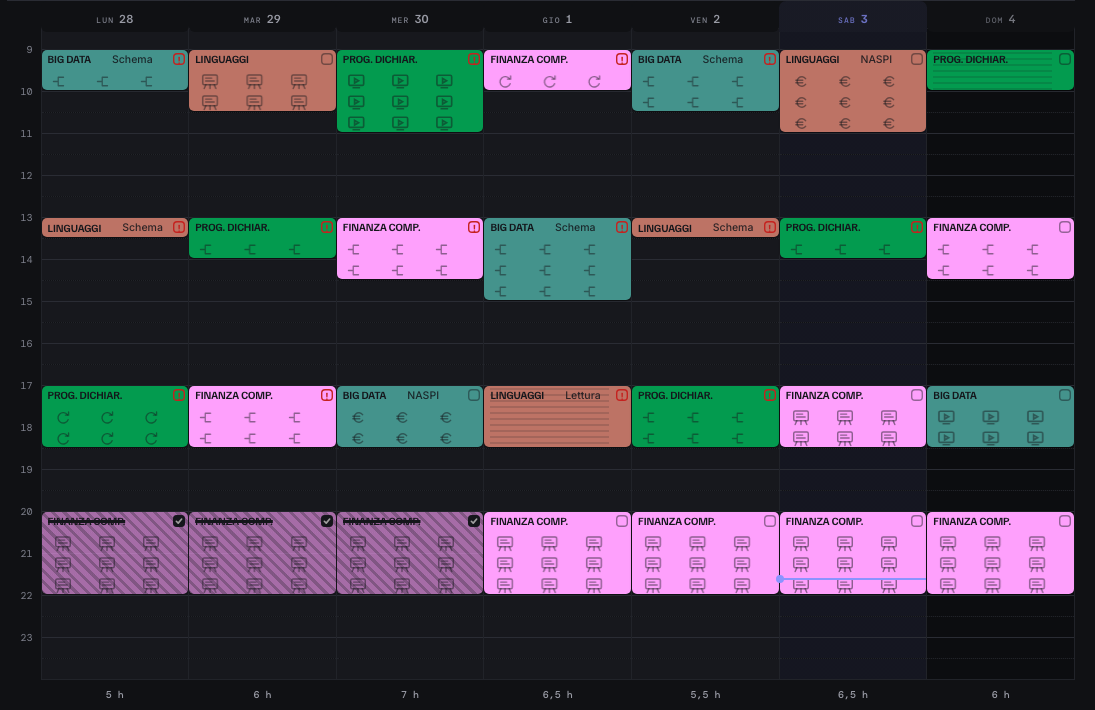
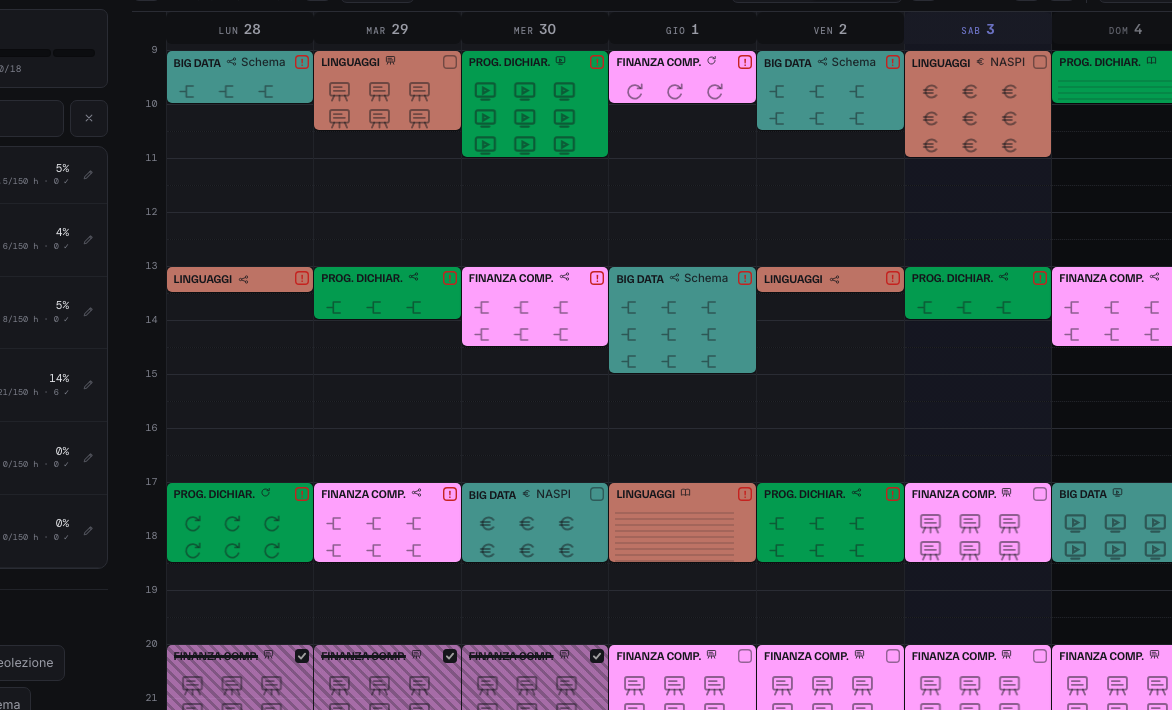
Il titolo torna NOME + icona + attivita'; la mezz'ora senza motivo
Come chiesto il 3 ottobre, come c'era nel lavoro: il nome in grassetto,
l'icona dell'attivita' e il nome dell'attivita'. Se non ci sta tutto,
prima se ne va la parola, poi l'icona; il nome della materia mai, e mai
coi puntini per far posto agli altri due. Dopo che arrivano i caratteri
veri il disegno si rifa', perche' quello che ci stava col carattere di
riserva puo' non starci piu'.

La mezz'ora da sola non ha piu' figure ne' tessuti: solo il titolo.

E le file delle figure partono tutte dalla stessa mezz'ora nei blocchi
della stessa lunghezza: l'icona accanto al nome lo abbassava di due
pixel, e a certe altezze bastava per farle partire una mezz'ora piu' in
basso in un blocco e non nel vicino.

diff --git a/index.html b/index.html
@@ -579,7 +579,6 @@ tbody tr:last-child td.c{border-bottom:1px solid var(--line-soft)}
    posto. L'iconcina dell'attivita' accanto al nome non serve piu': lo dice
    gia' la fila di figure, in ogni mezz'ora. Torna quando il motivo non ci sta. */
 
-.blk em .l1 s:not(.soloico) .ico{display:none}
 /* il titolo su una riga sola (classe doppia: vince sulle regole piu' sotto) */
 .blk em .l1.l1{flex-wrap:nowrap}
 .blk em .l1.l1 b{flex:0 1 auto;min-width:0;overflow:hidden;text-overflow:ellipsis;white-space:nowrap}
@@ -587,8 +586,8 @@ tbody tr:last-child td.c{border-bottom:1px solid var(--line-soft)}
 .blk em .l1.l1 s i{white-space:nowrap;overflow:hidden;text-overflow:ellipsis;min-width:0}
 /* Nome e attività sulla stessa riga se ci stanno; se no l'attività va a capo
    da sola, invece di troncarle tutt'e due come faceva la riga forzata. */
-.blk em .l1{display:flex;flex-wrap:wrap;align-items:baseline;column-gap:6px;
-  flex:0 0 auto;padding-right:24px}
+.blk em .l1{display:flex;flex-wrap:wrap;align-items:baseline;column-gap:5px;
+  flex:0 0 auto;padding-right:16px}
 .blk em .l1 b{flex:0 1 auto;max-width:100%;padding-right:0}
 .blk em .l1 s{flex:0 1 auto;min-width:0;margin-top:0}
 .blk em span.tr{flex:1 1 0;min-height:0;margin:2px -7px 0;background-image:var(--tr);
@@ -626,7 +625,7 @@ html[data-row="micro"] .blk em u.nota{font-size:10px;line-height:1.15;margin-top
 .blk.mini em s{margin-top:0;flex:0 1 auto;min-width:0;overflow:hidden}
 .blk.mini em s i{white-space:nowrap;min-width:0}
 .blk.mini em b{flex:0 0 auto;max-width:70%}
-.blk.mini em s:not(.soloico) .ico{display:none}
+
 /* margine suo: quello della fascia orizzontale esce di sette pixel dai bordi
    per arrivare al filo del blocco, ma qui la fascia sta di fianco al testo e
    quei sette pixel se li mangia dalla distanza dal quadratino della spunta —
@@ -1861,7 +1860,7 @@ const SWATCHES=["#6E8BFF","#8FA4E8","#5FA8D3","#4A8FBE","#63C2C2","#4EA5A5",
    scritta nel pannello Backup: quando "mi fa ancora lo stesso" la prima
    domanda e' se il browser sta mostrando il file nuovo o uno vecchio in
    memoria — e senza questo nessuno dei due puo' rispondere. */
-const VERSIONE="3 ott 2026 · e";
+const VERSIONE="3 ott 2026 · f";
 const KEY="piano-6272-v5";
 let state={v:8,theme:"dark",piano:"LM18",year:1,ctx:"1",from:0,to:6,span:7,dayStart:0,act:"LEZ",brush:null,erase:false,
            exams:[],over:{},q:"",collapsed:{},dayClip:null,semOpen:false,blockClip:null,
@@ -5302,27 +5301,41 @@ function motivi(root){
   /* Il nome della materia viene prima: se accanto a lui l'attivita' non ci
      sta intera, l'attivita' non si scrive (lo dicono le figure), invece di
      troncarli tutti e due a "FINANZA COM… S…". */
-  (root||document).querySelectorAll(".blk em .l1").forEach(l1=>{
-    const i=l1.querySelector("s i"),b=l1.querySelector("b");
-    if(i&&(i.scrollWidth>i.clientWidth+1||(b&&b.scrollWidth>b.clientWidth+1))){
-      const ss=i.closest("s");if(ss&&!ss.classList.contains("soloico"))ss.remove();}
+  /* Il titolo e' NOME + icona + attivita', com'era nel lavoro (3 ottobre).
+     Se non ci sta tutto, prima se ne va la parola, poi l'icona: il nome
+     della materia viene sempre per primo. */
+  (root||document).querySelectorAll(".blk em .l1, .blk.mini em").forEach(l1=>{
+    const b=l1.querySelector(":scope > b"),ss=l1.querySelector(":scope > s");
+    if(!b||!ss||ss.classList.contains("soloico"))return;
+    /* basta un pixel: coi puntini "Schema" diventa "Sche…" */
+    const stretto=()=>b.scrollWidth>b.clientWidth||[...ss.querySelectorAll("i")].some(i=>i.scrollWidth>i.clientWidth);
+    if(!stretto())return;
+    const i=ss.querySelector("i");if(i)i.remove();
+    if(b.scrollWidth>b.clientWidth)ss.remove();
   });
   bl.forEach(o=>{if(o.f){o.f.classList.add("tutto");o.f.style.flex="";o.f.style.marginTop="";o.f.style.top="";o.f.style.backgroundImage="";}});
   bl.forEach(o=>{
     const r=o.b.getBoundingClientRect(),w=r.width,h=r.height;
     const [tw,th,figura]=o.d,a=o.b.dataset.att;
     if(!(w>3&&h>3)){ripiego(o);return;}
+    /* la mezz'ora da sola non ha motivo, ne' figure ne' tessuti */
+    if(!o.f||o.b.classList.contains("mini")){
+      if(o.f)o.f.style.backgroundImage="none";
+      o.b.style.setProperty("--trr","no-repeat");
+      return;
+    }
     /* anche i tessuti partono sotto le scritte */
     if(!figura&&o.f&&!o.b.classList.contains("mini")){
-      const em0=o.f.parentNode,t0=o.b.getBoundingClientRect().top;let fo=0;
-      [...em0.children].forEach(e=>{if(e===o.f)return;const q=e.getBoundingClientRect();if(q.height)fo=Math.max(fo,q.bottom-t0);});
+      const em0=o.f.parentNode,t0=o.b.getBoundingClientRect().top,fo=fondoTitolo(em0,t0);
       const kk=Math.max(1,Math.ceil((fo-1)/ROW));
       if(kk*ROW>=h-2){o.f.style.backgroundImage="none";return;}
       o.f.style.top=(kk*ROW)+"px";
     }
     if(!figura){
-      /* i tessuti — righe, quadretti, punti — a misura naturale, dall'angolo */
-      o.b.style.setProperty("--trs",tw+"px "+th+"px");
+      /* i tessuti — righe, quadretti, punti — a misura naturale, dall'angolo;
+         rimpiccioliti solo dove la fascia e' piu' bassa di un disegno */
+      const hb=o.f?o.f.getBoundingClientRect().height:h,sc=Math.min(1,hb/th);
+      o.b.style.setProperty("--trs",(tw*sc).toFixed(1)+"px "+(th*sc).toFixed(1)+"px");
       o.b.style.setProperty("--trr","repeat");
       o.b.style.setProperty("--trp","0 0");
       return;
@@ -5331,40 +5344,18 @@ function motivi(root){
     /* lo spazio vero e' quello della fascia, che si ferma prima della spunta */
     const wf=o.f?o.f.getBoundingClientRect().width:w-28;
     if(wf<FW+2){ripiego(o);return;}
-    /* la mezz'ora da sola e' diversa, e va bene cosi': una figura sola, in
-       fondo a destra prima del quadratino, accanto alle scritte */
+    /* La mezz'ora da sola non ha figure (3 ottobre: "non mi convince il
+       singolo slot"): ha il titolo come tutti gli altri blocchi, nome, icona
+       e attivita', e basta. */
     if(!o.f||o.b.classList.contains("mini")){
-      const cw=Math.ceil(FW)+2,ch=Math.max(1,Math.floor(h));
-      /* subito dopo le scritte, non sotto: se dopo il nome e l'attivita' non
-         c'e' posto per una figura intera, niente figura — l'attivita' e'
-         scritta */
-      let x=null;
-      if(o.f){
-        const em=o.f.parentNode,fr=o.f.getBoundingClientRect();
-        const nb=em.querySelector(":scope > b"),ns=em.querySelector(":scope > s");
-        const rb=nb?nb.getBoundingClientRect():null,rs=ns&&ns.textContent.trim()?ns.getBoundingClientRect():null;
-        /* nello spazio fra il nome e l'attivita', se c'e'; se no dopo */
-        const a0=(rb?rb.right:fr.left)+6-fr.left,a1=(rs?rs.left:fr.right)-6-fr.left;
-        if(a1-a0>=cw)x=Math.round((a0+a1-cw)/2);
-        else{
-          const b0=(rs?rs.right:(rb?rb.right:fr.left))+6-fr.left;
-          if(b0+cw<=fr.width)x=Math.round(b0);
-          else{o.f.style.backgroundImage="none";o.b.style.setProperty("--trr","no-repeat");return;}
-        }
-      }
-      o.b.style.setProperty("--tr",cella(a,cw,ch));
-      o.b.style.setProperty("--trs",cw+"px "+ch+"px");
+      if(o.f)o.f.style.backgroundImage="none";
       o.b.style.setProperty("--trr","no-repeat");
-      o.b.style.setProperty("--trp",x==null?"100% 50%":x+"px 50%");
       return;
     }
     /* Le figure partono dalla prima mezz'ora libera sotto le scritte, mai
        sotto il nome o l'attivita': sovrapposte, il 3 ottobre, facevano un
        pasticcio illeggibile. Da li' in giu', una fila per mezz'ora. */
-    const em=o.f.parentNode,top0=o.b.getBoundingClientRect().top;
-    let fondo=0;
-    [...em.children].forEach(e=>{if(e===o.f)return;const q=e.getBoundingClientRect();
-      if(q.height)fondo=Math.max(fondo,q.bottom-top0);});
+    const em=o.f.parentNode,top0=o.b.getBoundingClientRect().top,fondo=fondoTitolo(em,top0);
     const k0=Math.max(1,Math.ceil((fondo-1)/ROW));
     if(k0*ROW+figMisura(o.d).F>h+2){o.f.style.backgroundImage="none";o.b.style.setProperty("--trr","no-repeat");return;}
     o.f.style.top=(k0*ROW)+"px";
@@ -5374,6 +5365,19 @@ function motivi(root){
     o.b.style.setProperty("--trr","space repeat");
     o.b.style.setProperty("--trp","0 0");
   });
+}
+/* Dove finiscono le scritte: conta il nome della materia (e la nota, se
+   c'e'), non l'icona accanto. L'icona alza la riga di un pixel o due, e a
+   certe altezze di mezz'ora bastava quello a far partire le figure una
+   mezz'ora piu' in basso in un blocco e non nel suo vicino. */
+function fondoTitolo(em,top0){
+  let f=0;
+  /* l'altezza del nome piu' il margine di sopra, non dove il nome e'
+     finito: l'icona accanto lo sposta di due pixel in giu' */
+  const b=em.querySelector(".l1 > b, :scope > b");
+  if(b)f=(parseFloat(getComputedStyle(em).paddingTop)||0)+b.getBoundingClientRect().height;
+  em.querySelectorAll(":scope > u.nota").forEach(u=>{const q=u.getBoundingClientRect();if(q.height)f=Math.max(f,q.bottom-top0);});
+  return f;
 }
 /* La misura delle figure: quasi tutta la mezz'ora — a poco piu' di meta'
    (3 ottobre) "sono troppo piccoli, non riesco quasi a vederli". Mai sotto
@@ -7152,7 +7156,9 @@ window.addEventListener("afterprint",()=>{
      la densità va ricalcolata quando la pagina è davvero assestata */
   requestAnimationFrame(()=>{if(autoRow())redrawGrid();});
   if(document.fonts&&document.fonts.ready)
-    document.fonts.ready.then(()=>{if(autoRow())redrawGrid();});
+    /* sempre: coi caratteri veri le scritte sono piu' larghe, e quello che
+       ci stava col carattere di riserva puo' non starci piu' */
+    document.fonts.ready.then(()=>{autoRow();redrawGrid();});
   /* Il timer si basa sull'orario di fine: riprende anche dopo una chiusura.
      E se è scaduto mentre la pagina era chiusa la sessione è finita davvero,
      quindi vale come finita: passava false e il blocco agganciato non veniva

diff --git a/test/suite.js b/test/suite.js
@@ -351,10 +351,16 @@
   /* ---------- blocchi ---------- */
   pulisci();apri();
   /* dal 3 ottobre si': "a lavoro metti anche la scritta e mi piace molto" */
-  t("la mezz'ora scrive anche il nome dell'attività",function(){
+  /* nome, icona e attivita' (3 ottobre), se ci stanno: il nome prima */
+  t("la mezz'ora scrive il nome, e l'icona e l'attivita' quando ci stanno",function(){
     placeRun(G[0],H0,{i:it[0].id,a:"ESE",len:1},0);render();
     var b=document.querySelector('.blk.mini');
-    return b?eq(b.textContent.indexOf("Esercizi")>=0,true,"il testo è: "+b.textContent):"nessun blocco mini";});
+    if(!b)return "nessun blocco mini";
+    var nb=b.querySelector("em > b"),s2=b.querySelector("em > s");
+    if(!nb||nb.textContent.indexOf(it[0].short.toUpperCase())<0)return "manca il nome: "+b.textContent;
+    var largo=b.getBoundingClientRect().width>=160;
+    if(largo&&!(s2&&s2.querySelector(".ico")))return "in una colonna larga manca l'icona dell'attivita'";
+    return true;});
   t("la mezz'ora ha la fascia del motivo",function(){
     return eq(!!document.querySelector(".blk.mini span.tr"),true);});
   t("la fascia del motivo non è mai alta zero",function(){
@@ -401,6 +407,7 @@
     [].forEach.call(document.querySelectorAll(".blk[data-att]"),function(b){
       var f=b.querySelector("em > span.tr");if(!f)return;
       var r=f.getBoundingClientRect();if(r.height<1)return;   /* ripiego: c'e' l'icona */
+      if(getComputedStyle(f).backgroundImage==="none")return;  /* niente motivo qui */
       var cs=getComputedStyle(b),ts=cs.getPropertyValue("--trs").trim(),
           d=TRDIM[b.dataset.att],
           rr=(cs.getPropertyValue("--trr").trim()||"repeat").split(/\s+/)[0],
@@ -1565,8 +1572,9 @@
     var lunghe=Object.keys(file);
     for(var i=0;i<lunghe.length;i++)if(Object.keys(file[lunghe[i]]).length!==1)guai.push(lunghe[i]+" mezz'ore: "+Object.keys(file[lunghe[i]]).join(" o ")+" file");
     if(guai.length)return guai.join(" · ");
-    /* una fila per ogni mezz'ora sotto quella del titolo */
-    return (file[5]&&file[3]&&+Object.keys(file[5])[0]===4&&+Object.keys(file[3])[0]===2)?true:
+    /* una fila per ogni mezz'ora sotto il titolo: due mezz'ore in piu', due
+       file in piu' */
+    return (file[5]&&file[3]&&+Object.keys(file[5])[0]-+Object.keys(file[3])[0]===2)?true:
       "le file non sono una per mezz'ora: "+JSON.stringify(file);});
   /* 3 ottobre: "se salto la pausa deve essere considerata come tempo fatto" */
   t("saltare la pausa conta la pausa intera, nel registro e nelle mezz'ore",function(){
@@ -3069,4 +3077,4 @@
   /* i controlli rinviati fanno giri con attese vere (file, gist): 400 ms
      bastavano ai primi, non a quelli che rimettono un piano e ridisegnano
      tutto su una finestra piccola */
-  if(rinviati.length)setTimeout(verdetto,2000);else verdetto();
+  if(rinviati.length)setTimeout(verdetto,4000);else verdetto();
